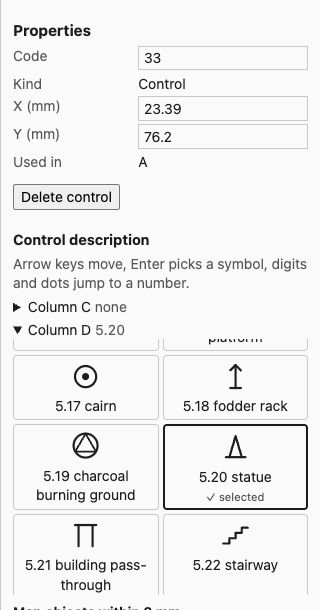
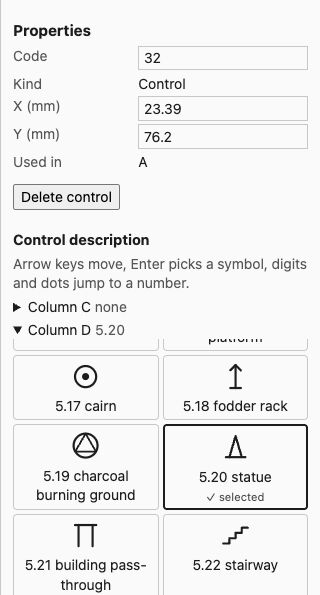
docs(manual): new editor pictures of the Rummelsburg example, Gleisdreieck course picture
Start and finish are visible inside the map in the overview. Captions, the
findings text and the section on the rules follow the new course and rule.

Claude-Session: https://claude.ai/code/session_01BW25Yt2PSSZSQgZDdWkfxQ

Changed region(s): [[0.0312, 0.0303, 0.9688, 1.0], [0.4375, 0.0605, 0.9688, 0.3025]]

diff --git a/docs/manual/de.md b/docs/manual/de.md
@@ -335,7 +335,7 @@ Ein Editor gehört zu einem Projekt. Willst du ein zweites öffnen, startest du 
 
 ![Der Editor mit Bahn A auf der Karte Rummelsburger Bucht: links der Baum der Veranstaltung, in der Mitte die Karte mit der Bahn, rechts die Eigenschaften der Bahn, unten die Statusleiste mit den Befundzahlen.](images/editor-overview-de.jpg)
 
-*Der Editor mit Bahn A (fünf Posten, 1226 m) auf der Sprintkarte Rummelsburger Bucht. Deutsche Oberfläche. Karte: Remo Madella, MOO Challenge Berlin 2025, siehe examples/rummelsburger-bucht/ATTRIBUTION.txt.*
+*Der Editor mit Bahn A (vier Posten, 905 m) auf der Sprintkarte Rummelsburger Bucht; Start und Ziel stehen im Park in der Mitte. Deutsche Oberfläche. Karte: Remo Madella, MOO Challenge Berlin 2025, siehe examples/rummelsburger-bucht/ATTRIBUTION.txt.*
 
 ### Die Karte
 
@@ -442,7 +442,7 @@ Eine Strecke ist die gerade Linie von Posten zu Posten, bis du sie knickst. Klic
 
 ![Eine gewählte Strecke mit drei Knicken, in Blau mit weißen Punkten gezeichnet, daneben eine gestrichelte abgeflaggte Strecke, und die Eigenschaften der gewählten Strecke.](images/editor-legs-de.jpg)
 
-*Eine Strecke, mit dem Werkzeug „Auswählen“ gewählt. Die Strecke von Posten 32 zu Posten 33 hat drei Knicke (die weißen Punkte); die Eigenschaften zeigen ihre Zahl und das Kästchen „Abgeflaggt“. Die gestrichelte Strecke von Posten 35 ins Ziel ist abgeflaggt und hat einen Knick. Diese Knicke habe ich nur für das Bild gesetzt: Strecken sind standardmäßig gerade, und die Bahn des Beispiels hat keinen Knick. Karte: Remo Madella, MOO Challenge Berlin 2025, siehe examples/rummelsburger-bucht/ATTRIBUTION.txt.*
+*Eine Strecke, mit dem Werkzeug „Auswählen“ gewählt. Die Strecke von Posten 32 zu Posten 33 hat drei Knicke (die weißen Punkte); die Eigenschaften zeigen ihre Zahl und das Kästchen „Abgeflaggt“. Die gestrichelte Strecke von Posten 34 ins Ziel ist abgeflaggt und hat einen Knick. Diese Knicke habe ich nur für das Bild gesetzt: Strecken sind standardmäßig gerade, und die Bahn des Beispiels hat keinen Knick. Karte: Remo Madella, MOO Challenge Berlin 2025, siehe examples/rummelsburger-bucht/ATTRIBUTION.txt.*
 
 - **Knick einfügen.** Ziehe an der Linie der gewählten Strecke. Dort, wo du loslässt, entsteht ein Knick.
 - **Knick verschieben oder löschen.** Ziehe einen Knick, um ihn zu verschieben. Ein Klick wählt ihn, Entf löscht ihn.
@@ -459,7 +459,7 @@ automatisch gesetzt, und das Projekt speichert noch keine Lage dafür.
 
 ![Bahnmodus mit Bahn A: die Postennummern neben ihren Kreisen, das Feld 2 mit gestricheltem Rand.](images/editor-numbers-de.jpg)
 
-*Bahnmodus. Die Nummern stehen neben ihren Kreisen. Das Feld 2 hat einen gestrichelten Rand, weil das Programm es gesetzt hat und das Projekt speichert keine Lage dafür. Die Felder 1, 3, 4 und 5 haben eine gesetzte Lage. Karte: Remo Madella, MOO Challenge Berlin 2025, siehe examples/rummelsburger-bucht/ATTRIBUTION.txt.*
+*Bahnmodus. Die Nummern stehen neben ihren Kreisen. Das Feld 2 hat einen gestrichelten Rand, weil das Programm es gesetzt hat und das Projekt speichert keine Lage dafür. Die Felder 1, 3 und 4 haben eine gesetzte Lage. Karte: Remo Madella, MOO Challenge Berlin 2025, siehe examples/rummelsburger-bucht/ATTRIBUTION.txt.*
 
 - **Ziehen.** Ziehe im Bahnmodus ein Nummernfeld an eine andere Stelle. Beim Loslassen rechnet der Editor den Ort in
   Richtung und Abstand vom Kreis um und speichert beides für diese Bahn.
@@ -481,7 +481,7 @@ des Programms. Die Kartenobjekte im Umkreis von 3 mm stehen unter Spalte D.
 
 ![Die Eigenschaften eines Postens mit aufgeklappter Spalte D als Raster aus Symbolen, gewählt ist 5.20 Denkmal.](images/editor-description-de.jpg)
 
-*Posten 33 mit offener Spalte D. Jedes Symbol zeigt Nummer und Namen; gewählt ist 5.20 Denkmal. Spalte C bleibt zugeklappt und zeigt ihren aktuellen Wert. Karte: Remo Madella, MOO Challenge Berlin 2025, siehe examples/rummelsburger-bucht/ATTRIBUTION.txt.*
+*Posten 32 mit offener Spalte D. Jedes Symbol zeigt Nummer und Namen; gewählt ist 5.20 Denkmal. Spalte C bleibt zugeklappt und zeigt ihren aktuellen Wert. Karte: Remo Madella, MOO Challenge Berlin 2025, siehe examples/rummelsburger-bucht/ATTRIBUTION.txt.*
 
 - **Wählen.** Klicke ein Symbol an oder gehe mit den Pfeiltasten hin (Pos1 und Ende springen zum ersten und letzten)
   und drücke Enter. Tippst du eine Nummer wie `1.3`, springt die Auswahl dorthin. Das Symbol in Gebrauch ist
@@ -558,9 +558,9 @@ Eigenschaften das Score-Fenster.
 
 Eine halbe Sekunde nach jeder Änderung führt der Editor dieselbe Prüfung aus wie `check` und zeigt das Ergebnis.
 
-![Die Befunde von Bahn A in den Eigenschaften: drei Hinweise, jeweils mit dem Knopf Akzeptieren, und Markierungen an den Strecken der Karte.](images/editor-findings-course-de.jpg)
+![Die Befunde von Bahn A in den Eigenschaften: eine Warnung und zwei Hinweise, jeweils mit dem Knopf Akzeptieren, und Markierungen an den Strecken der Karte.](images/editor-findings-course-de.jpg)
 
-*Die Befunde von Bahn A. Die drei Hinweise betreffen Winkel: zwei fast geradeaus laufende Posten und ein spitzer Winkel. Für dieses Bild habe ich zwei Posten der Beispielbahn verschoben, die Beispielbahn selbst hat keinen Befund. Jeder Befund hat „Akzeptieren...“, und an jeder betroffenen Strecke sitzt eine Markierung. Karte: Remo Madella, MOO Challenge Berlin 2025, siehe examples/rummelsburger-bucht/ATTRIBUTION.txt.*
+*Die Befunde von Bahn A: eine Warnung und zwei Hinweise, alle zu Winkeln. Die Bahn knickt am Posten 34 (43 Grad, eine Warnung) und am Posten 32 (49 Grad) zu scharf ab und läuft am Posten 31 (172 Grad) fast geradeaus weiter. Für dieses Bild habe ich die Posten 32 und 33 der Beispielbahn verschoben, die Beispielbahn selbst hat keinen Befund. Jeder Befund hat „Akzeptieren...“, und an jeder betroffenen Strecke sitzt eine Markierung. Karte: Remo Madella, MOO Challenge Berlin 2025, siehe examples/rummelsburger-bucht/ATTRIBUTION.txt.*
 
 ![Die Befundschublade über der rechten Seite des Editors mit den offenen Befunden und den Regeln, die nicht geprüft wurden.](images/editor-findings-de.jpg)
 
@@ -785,6 +785,15 @@ gilt ein Sonderobjekt der Art Sperrgebiet, das zur Bahn des Postens gehört oder
 jede Fläche mit dem Symbol 520 oder 709, auf Sprint- und Schulhofkarten auch 714. Ein Posten genau auf dem Rand steht
 im Gebiet. Start, Ziel, Querungsstellen und Posten, die auf keiner Bahn liegen, prüft die Regel nicht. Willst du die
 Lage trotzdem, akzeptierst du den Befund mit einer Begründung.
+
+Start, Ziel, Posten und Querungsstellen müssen außerdem auf der kartierten Fläche liegen. Viele Karten sind keine
+Rechtecke: Die Rummelsburger Bucht ist ein schräger Streifen, und der Rest des Blatts ist weiß, obwohl er im Rechteck
+um alle Kartenobjekte liegt (woran die Warnung `wkb2026.map.edge` misst). Eine Stelle im weißen Teil ist ein Fehler,
+Regel `wkb2026.map.inside`. Eine Stelle gilt als kartiert, wenn ein Kartenobjekt höchstens 40 m entfernt liegt. Der
+Blattrahmen und Layoutsymbole wie das Nordlinienmuster (601) zählen nicht als Objekte. Die Meldung nennt die Stelle in
+Kartenmillimetern und das nächste Objekt. Ein Platz zwischen Gebäuden ohne Objekt darin bleibt innen, solange er nicht
+viel breiter als 80 m ist; bei einer Karte mit großen leeren Flächen akzeptierst du den Befund mit einer Begründung oder
+bittest um einen größeren Wert in der Regel (ADR 0084).
 
 ### Übersprungene Prüfregeln
 

diff --git a/docs/manual/en.md b/docs/manual/en.md
@@ -322,7 +322,7 @@ One editor belongs to one project. To open a second project, start a second edit
 
 ![The editor with course A on the map Rummelsburger Bucht: the event tree on the left, the map with the course in the middle, the properties of the course on the right, the status bar with the finding counts below.](images/editor-overview-en.jpg)
 
-*The editor with course A (five controls, 1226 m) on the sprint map Rummelsburger Bucht. English interface. Map: Remo Madella, MOO Challenge Berlin 2025, see examples/rummelsburger-bucht/ATTRIBUTION.txt.*
+*The editor with course A (four controls, 905 m) on the sprint map Rummelsburger Bucht; start and finish stand in the park in the middle. English interface. Map: Remo Madella, MOO Challenge Berlin 2025, see examples/rummelsburger-bucht/ATTRIBUTION.txt.*
 
 ### The map
 
@@ -426,7 +426,7 @@ A leg is the straight line from control to control until you bend it. Click it w
 
 ![A selected leg with three bends, drawn in blue with white dots, next to a dashed taped leg, and the properties of the selected leg.](images/editor-legs-en.jpg)
 
-*A leg chosen with the "Select" tool. The leg from control 32 to control 33 has three bends (the white dots); the properties show their number and the box "Taped". The dashed leg from control 35 to the finish is taped and has one bend. I set these bends only for the picture: legs are straight by default, and the course of the example has no bend. Map: Remo Madella, MOO Challenge Berlin 2025, see examples/rummelsburger-bucht/ATTRIBUTION.txt.*
+*A leg chosen with the "Select" tool. The leg from control 32 to control 33 has three bends (the white dots); the properties show their number and the box "Taped". The dashed leg from control 34 to the finish is taped and has one bend. I set these bends only for the picture: legs are straight by default, and the course of the example has no bend. Map: Remo Madella, MOO Challenge Berlin 2025, see examples/rummelsburger-bucht/ATTRIBUTION.txt.*
 
 - **Add a bend.** Drag the line of the chosen leg. A bend appears where you let go.
 - **Move or delete a bend.** Drag a bend to move it. A click on a bend chooses it, and Delete removes it.
@@ -474,7 +474,7 @@ the project stores no position for it yet.
 
 ![Course mode with course A: the control numbers beside their circles, the box 2 with a dashed outline.](images/editor-numbers-en.jpg)
 
-*Course mode. The numbers sit beside their circles. The box 2 has a dashed outline, so the program placed it and the project stores no position for it. The boxes 1, 3, 4 and 5 have a placed position. Map: Remo Madella, MOO Challenge Berlin 2025, see examples/rummelsburger-bucht/ATTRIBUTION.txt.*
+*Course mode. The numbers sit beside their circles. The box 2 has a dashed outline, so the program placed it and the project stores no position for it. The boxes 1, 3 and 4 have a placed position. Map: Remo Madella, MOO Challenge Berlin 2025, see examples/rummelsburger-bucht/ATTRIBUTION.txt.*
 
 - **Drag.** In course mode, drag a number box to another place. On release the editor turns the place into a
   direction and a gap from the circle and stores both for this course.
@@ -495,7 +495,7 @@ within 3 mm of the control are listed below column D.
 
 ![The properties of a control with column D opened as a grid of symbols and 5.20 statue picked.](images/editor-description-en.jpg)
 
-*Control 33 with column D open. Each symbol shows its number and name; 5.20 statue is picked. Column C stays folded and shows its current value. Map: Remo Madella, MOO Challenge Berlin 2025, see examples/rummelsburger-bucht/ATTRIBUTION.txt.*
+*Control 32 with column D open. Each symbol shows its number and name; 5.20 statue is picked. Column C stays folded and shows its current value. Map: Remo Madella, MOO Challenge Berlin 2025, see examples/rummelsburger-bucht/ATTRIBUTION.txt.*
 
 - **Pick.** Click a symbol, or move with the arrow keys (Home and End jump to the first and last) and press Enter.
   Typing a number such as `1.3` jumps to it. The symbol in use is marked, and the focus stays on the pick.
@@ -535,9 +535,9 @@ The list comes from freemapper-core, so every symbol you can pick can also be wr
 
 Half a second after each change the editor runs the same check as `check` and shows the result.
 
-![The findings of course A in the properties: three hints, each with the button Accept, and markers on the map legs.](images/editor-findings-course-en.jpg)
+![The findings of course A in the properties: one warning and two hints, each with the button Accept, and markers on the map legs.](images/editor-findings-course-en.jpg)
 
-*The findings of course A. The three hints are about angles: two controls where the course runs almost straight on and one acute angle. I moved two controls of the example course for this picture; the example course itself has no finding. Each finding has "Accept...", and a marker sits on each leg it concerns. Map: Remo Madella, MOO Challenge Berlin 2025, see examples/rummelsburger-bucht/ATTRIBUTION.txt.*
+*The findings of course A: one warning and two hints, all about angles. The course turns too sharply at control 34 (43 degrees, a warning) and at control 32 (49 degrees), and it runs almost straight on at control 31 (172 degrees). I moved controls 32 and 33 of the example course for this picture; the example course itself has no finding. Each finding has "Accept...", and a marker sits on each leg it concerns. Map: Remo Madella, MOO Challenge Berlin 2025, see examples/rummelsburger-bucht/ATTRIBUTION.txt.*
 
 ![The findings drawer over the right side of the editor with the open findings and the rules that were not checked.](images/editor-findings-en.jpg)
 
@@ -750,6 +750,15 @@ special object of the kind out-of-bounds area that belongs to the course of the 
 map any area with the symbol 520 or 709, on sprint and schoolyard maps also 714. A control exactly on the edge stands in
 the area. The rule does not test the start, the finish, crossing points or controls that are on no course. If you
 want the position anyway, accept the finding with a reason.
+
+A start, finish, control or crossing point must also lie on the mapped area. Many maps are not rectangles: the
+Rummelsburger Bucht is a diagonal strip, and the rest of the sheet is blank, although it lies inside the rectangle
+around all map objects (which is what the warning `wkb2026.map.edge` measures against). A position in the blank part
+is an error, rule `wkb2026.map.inside`. A position counts as mapped when a map object lies within 40 m of it. The sheet
+frame and layout symbols such as the north lines pattern (601) do not count as objects. The message names the
+position in map millimetres and the nearest object. A square between buildings with no object in it stays inside as
+long as it is not much wider than 80 m; on a map with large empty areas, accept the finding with a reason or ask for a
+larger value in the rule (ADR 0084).
 
 ### Skipped rules
 
